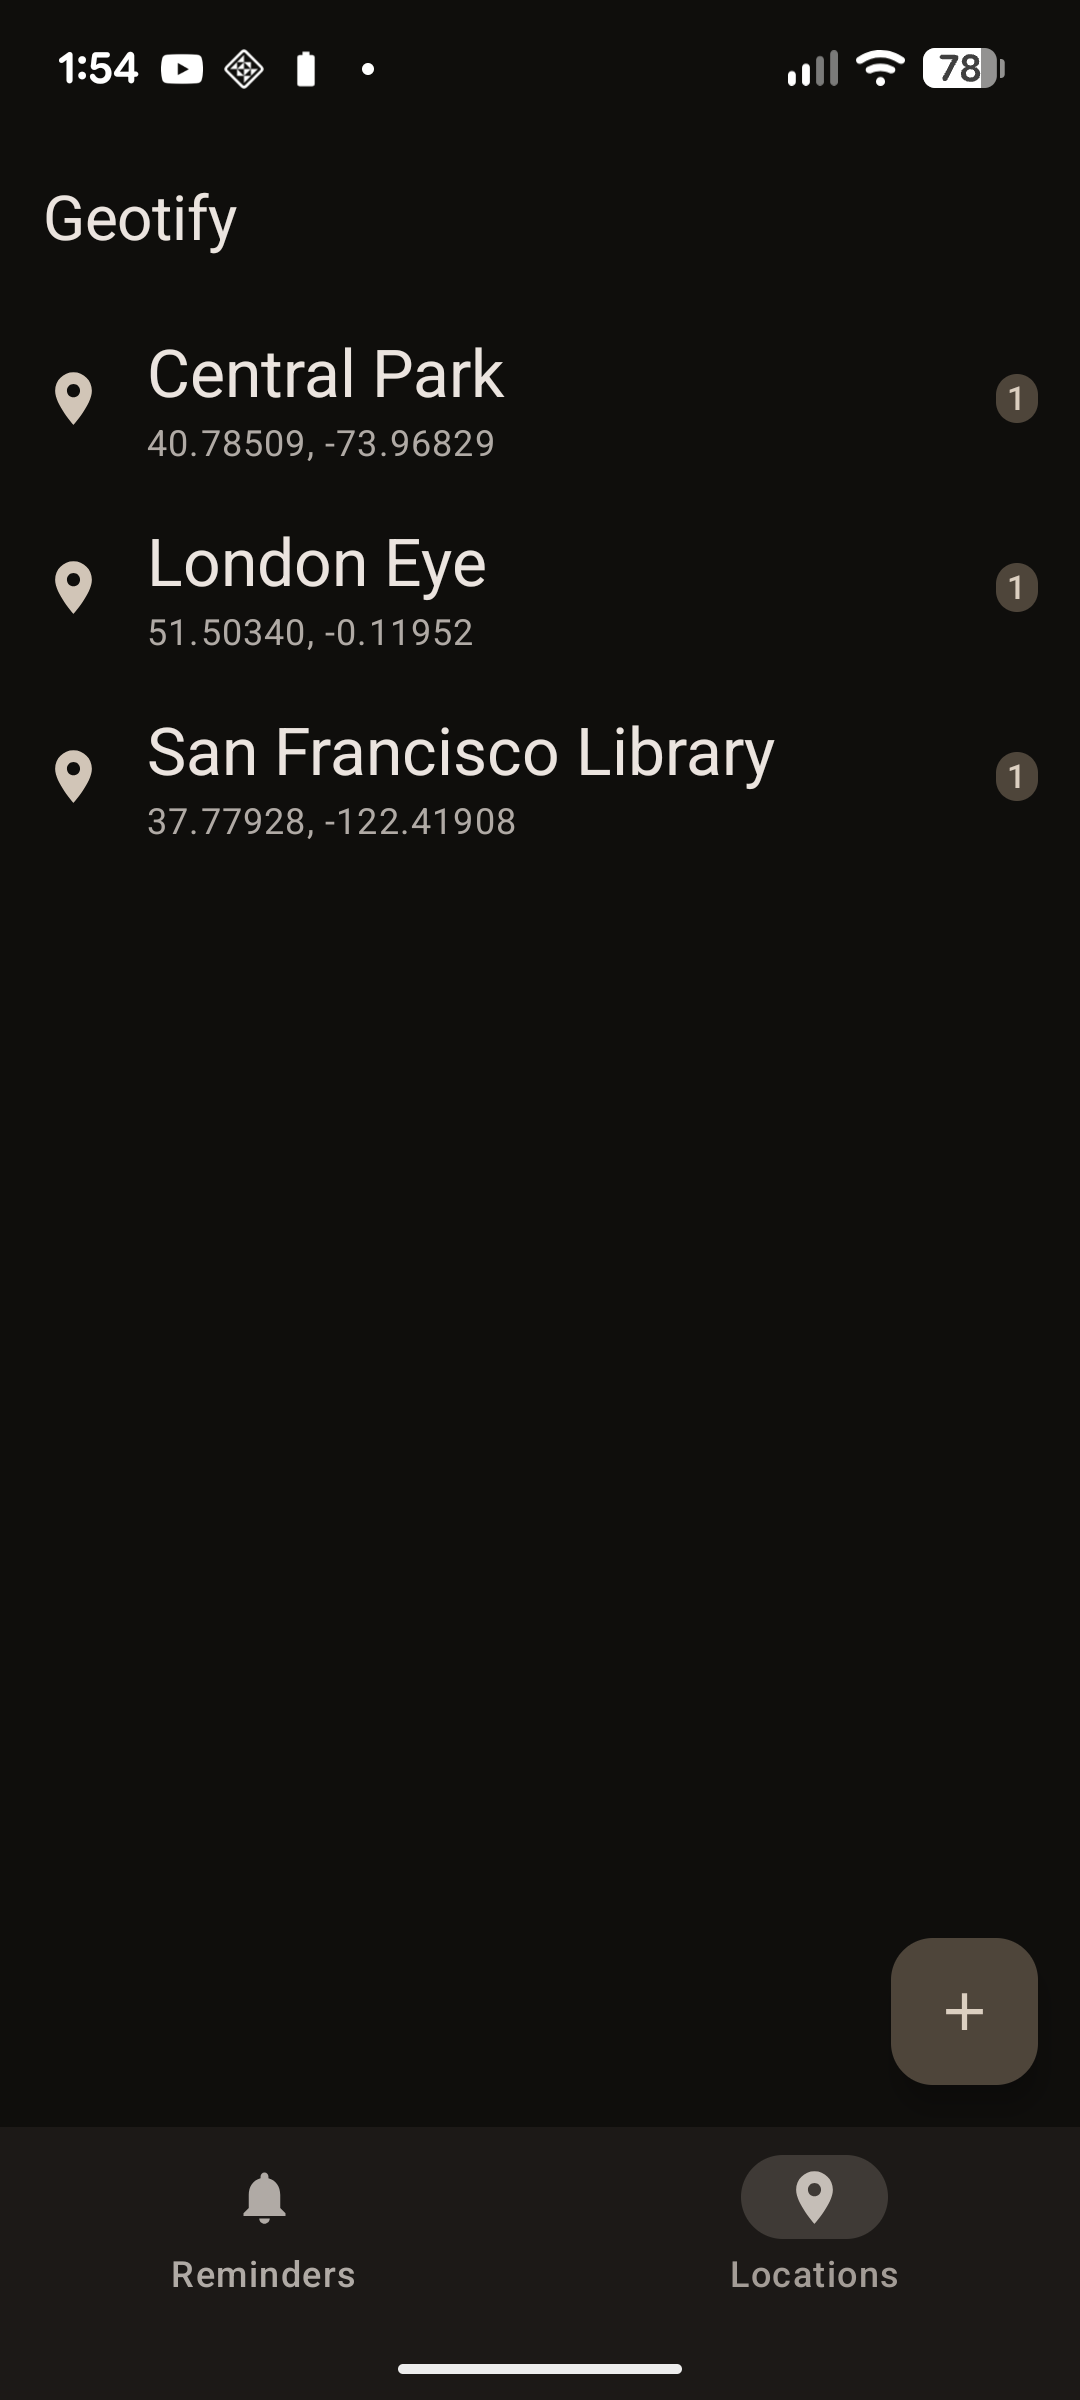
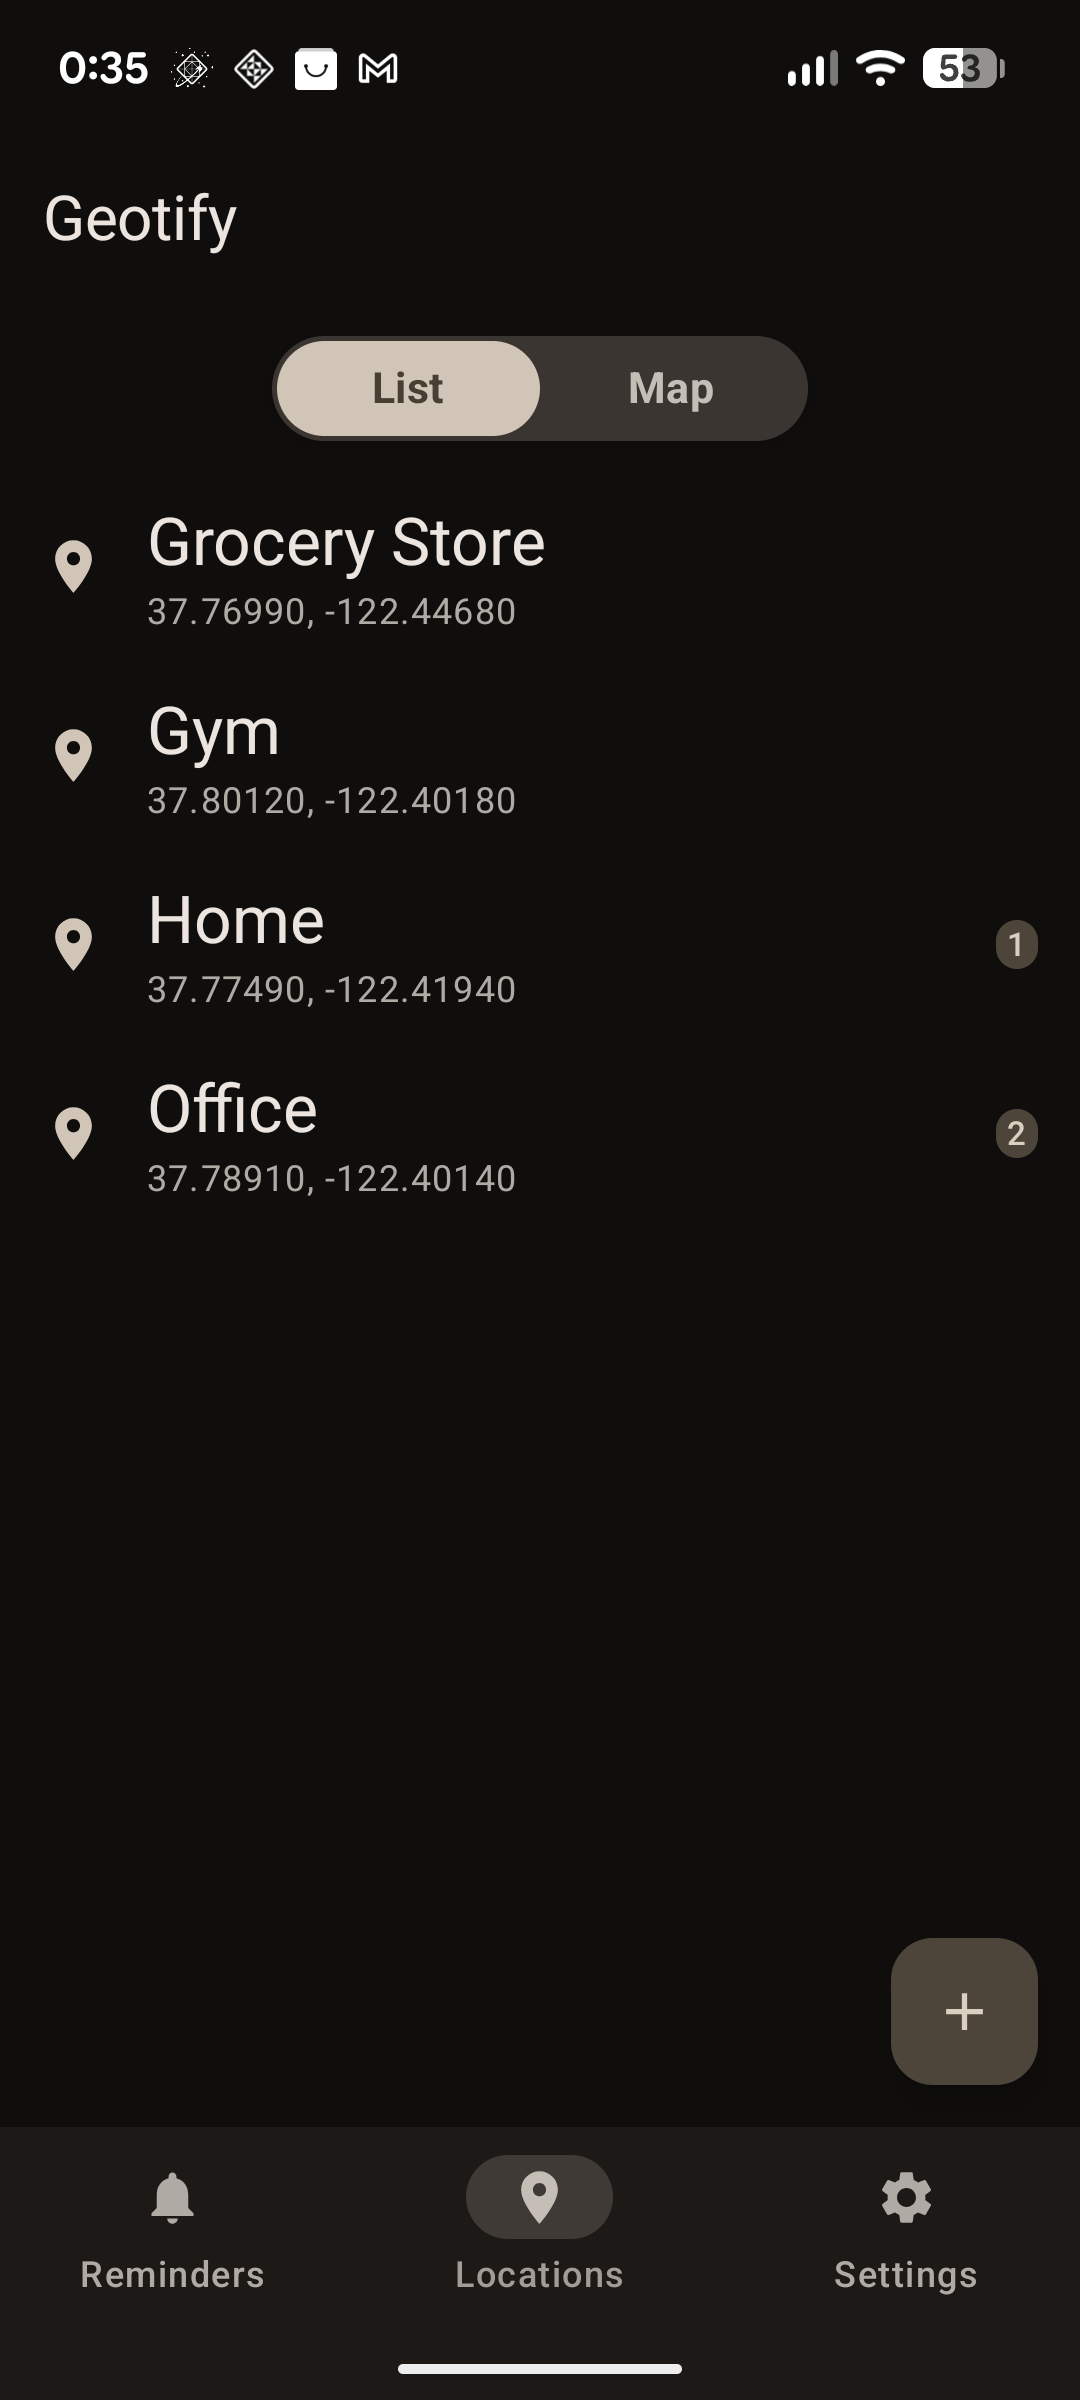
Update screenshots and README with English locale and fake data

diff --git a/README.md b/README.md
@@ -23,9 +23,13 @@ Geotify is a modern, location-aware Android application that allows users to cre
 
 ## Screenshots
 
-| Reminders (Default Screen) | Locations |
+| Reminders (Default Screen) | Locations (List View) |
 |:---:|:---:|
 | ![Reminders Screen](screenshots/reminders_en.png) | ![Locations Screen](screenshots/locations_en.png) |
+
+| Locations (Map View) | Settings |
+|:---:|:---:|
+| ![Locations Map Screen](screenshots/map_en.png) | ![Settings Screen](screenshots/settings_en.png) |
 
 ---
 
